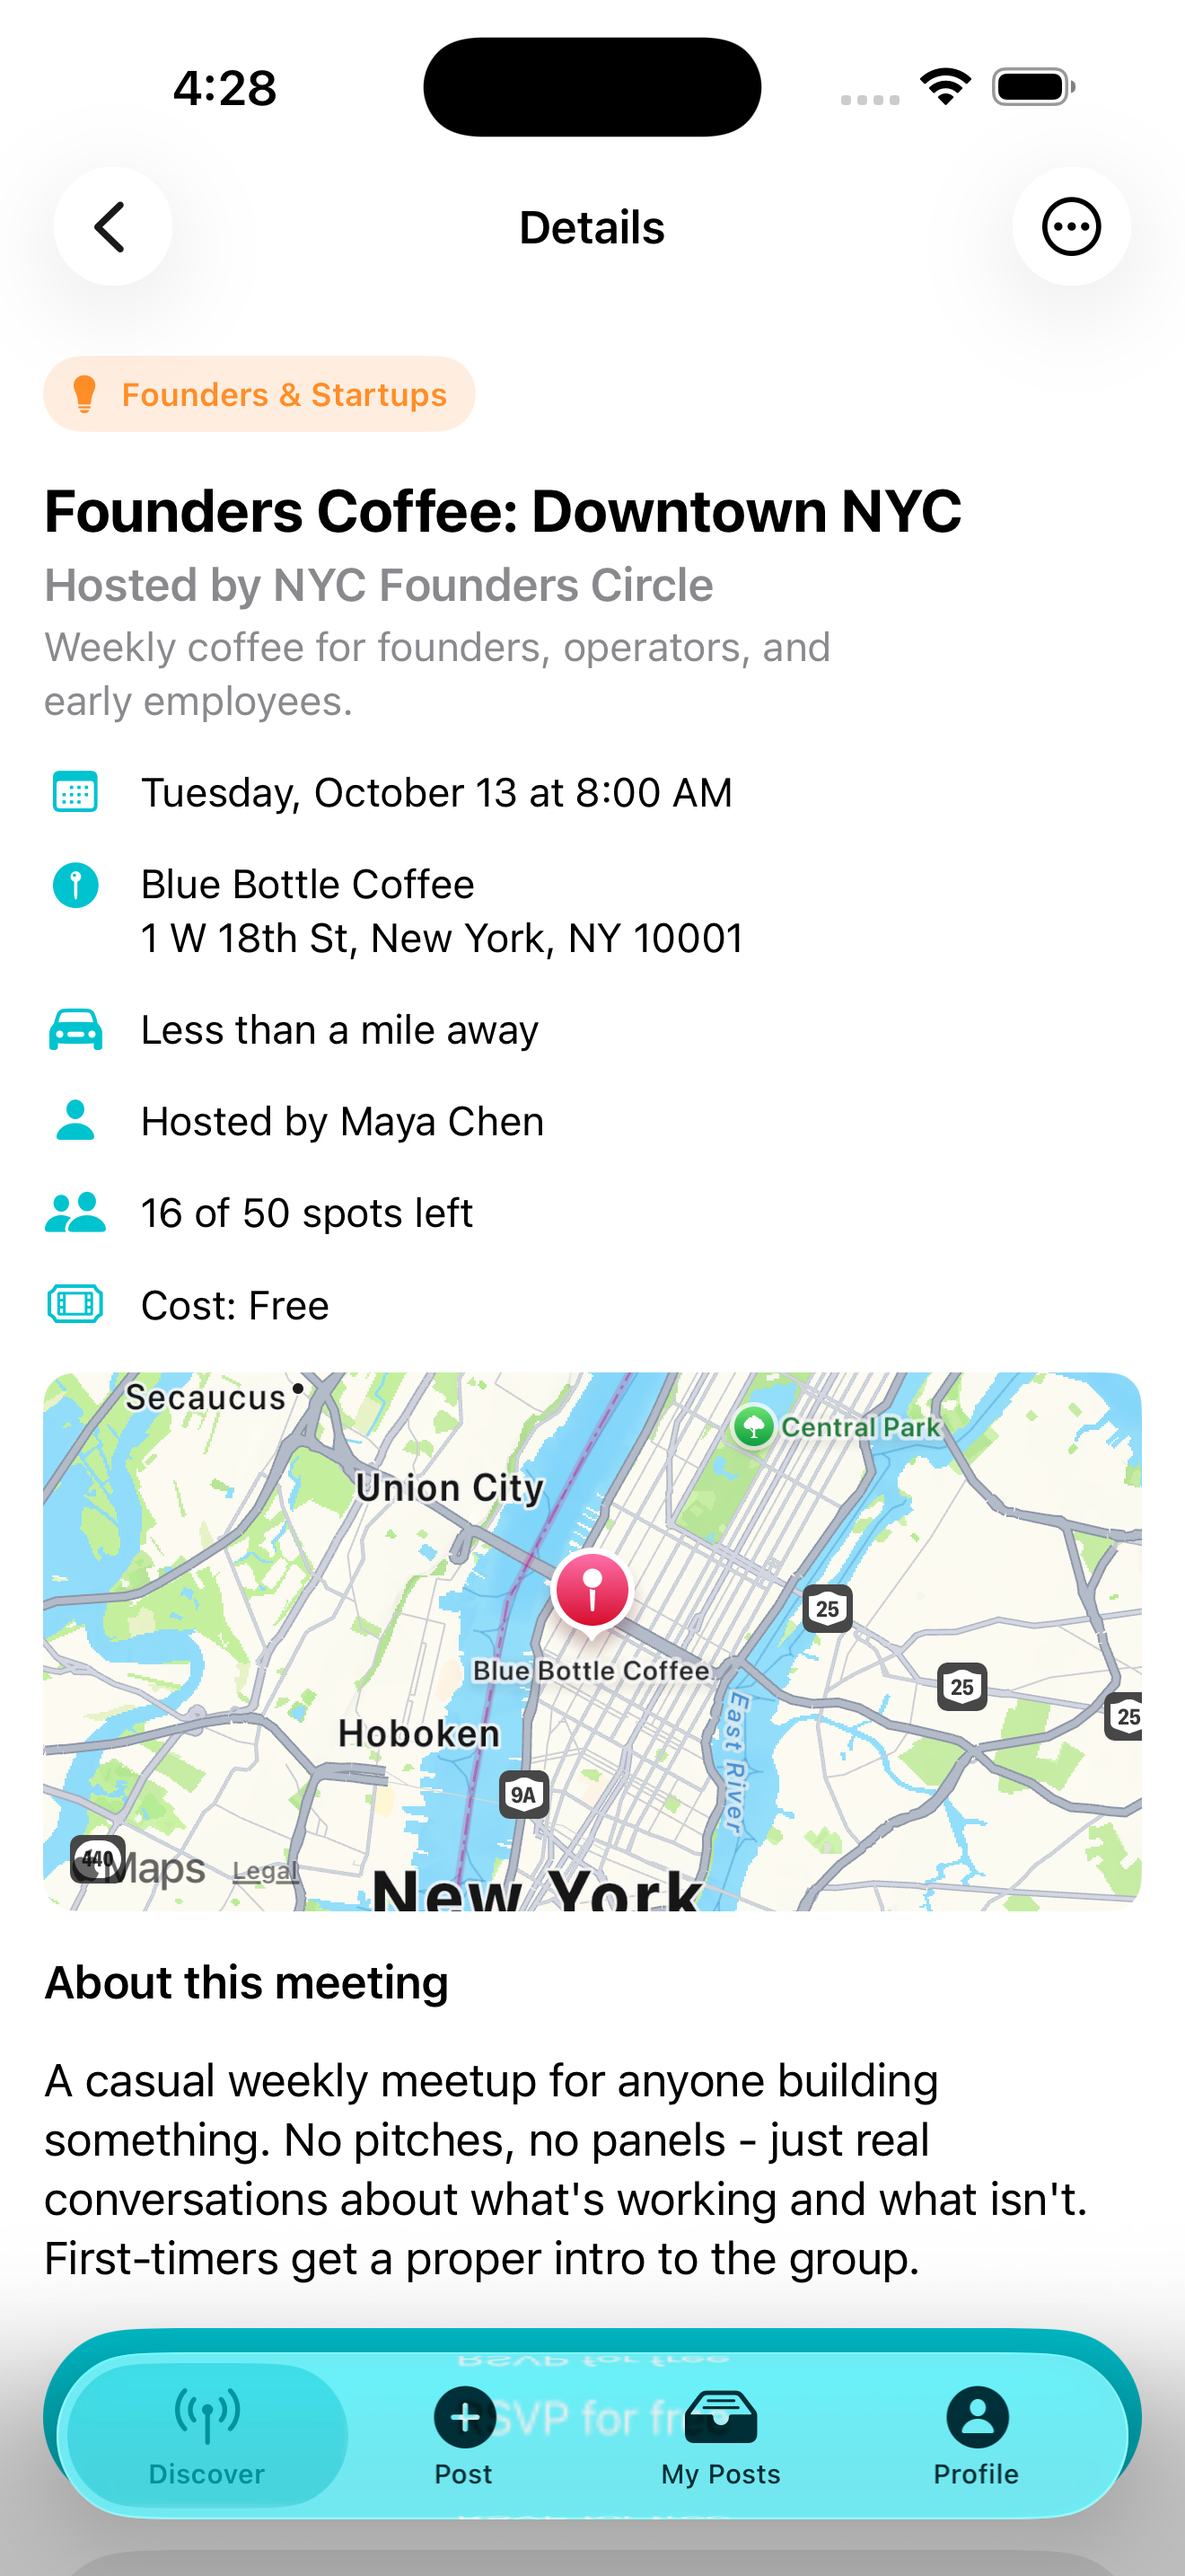
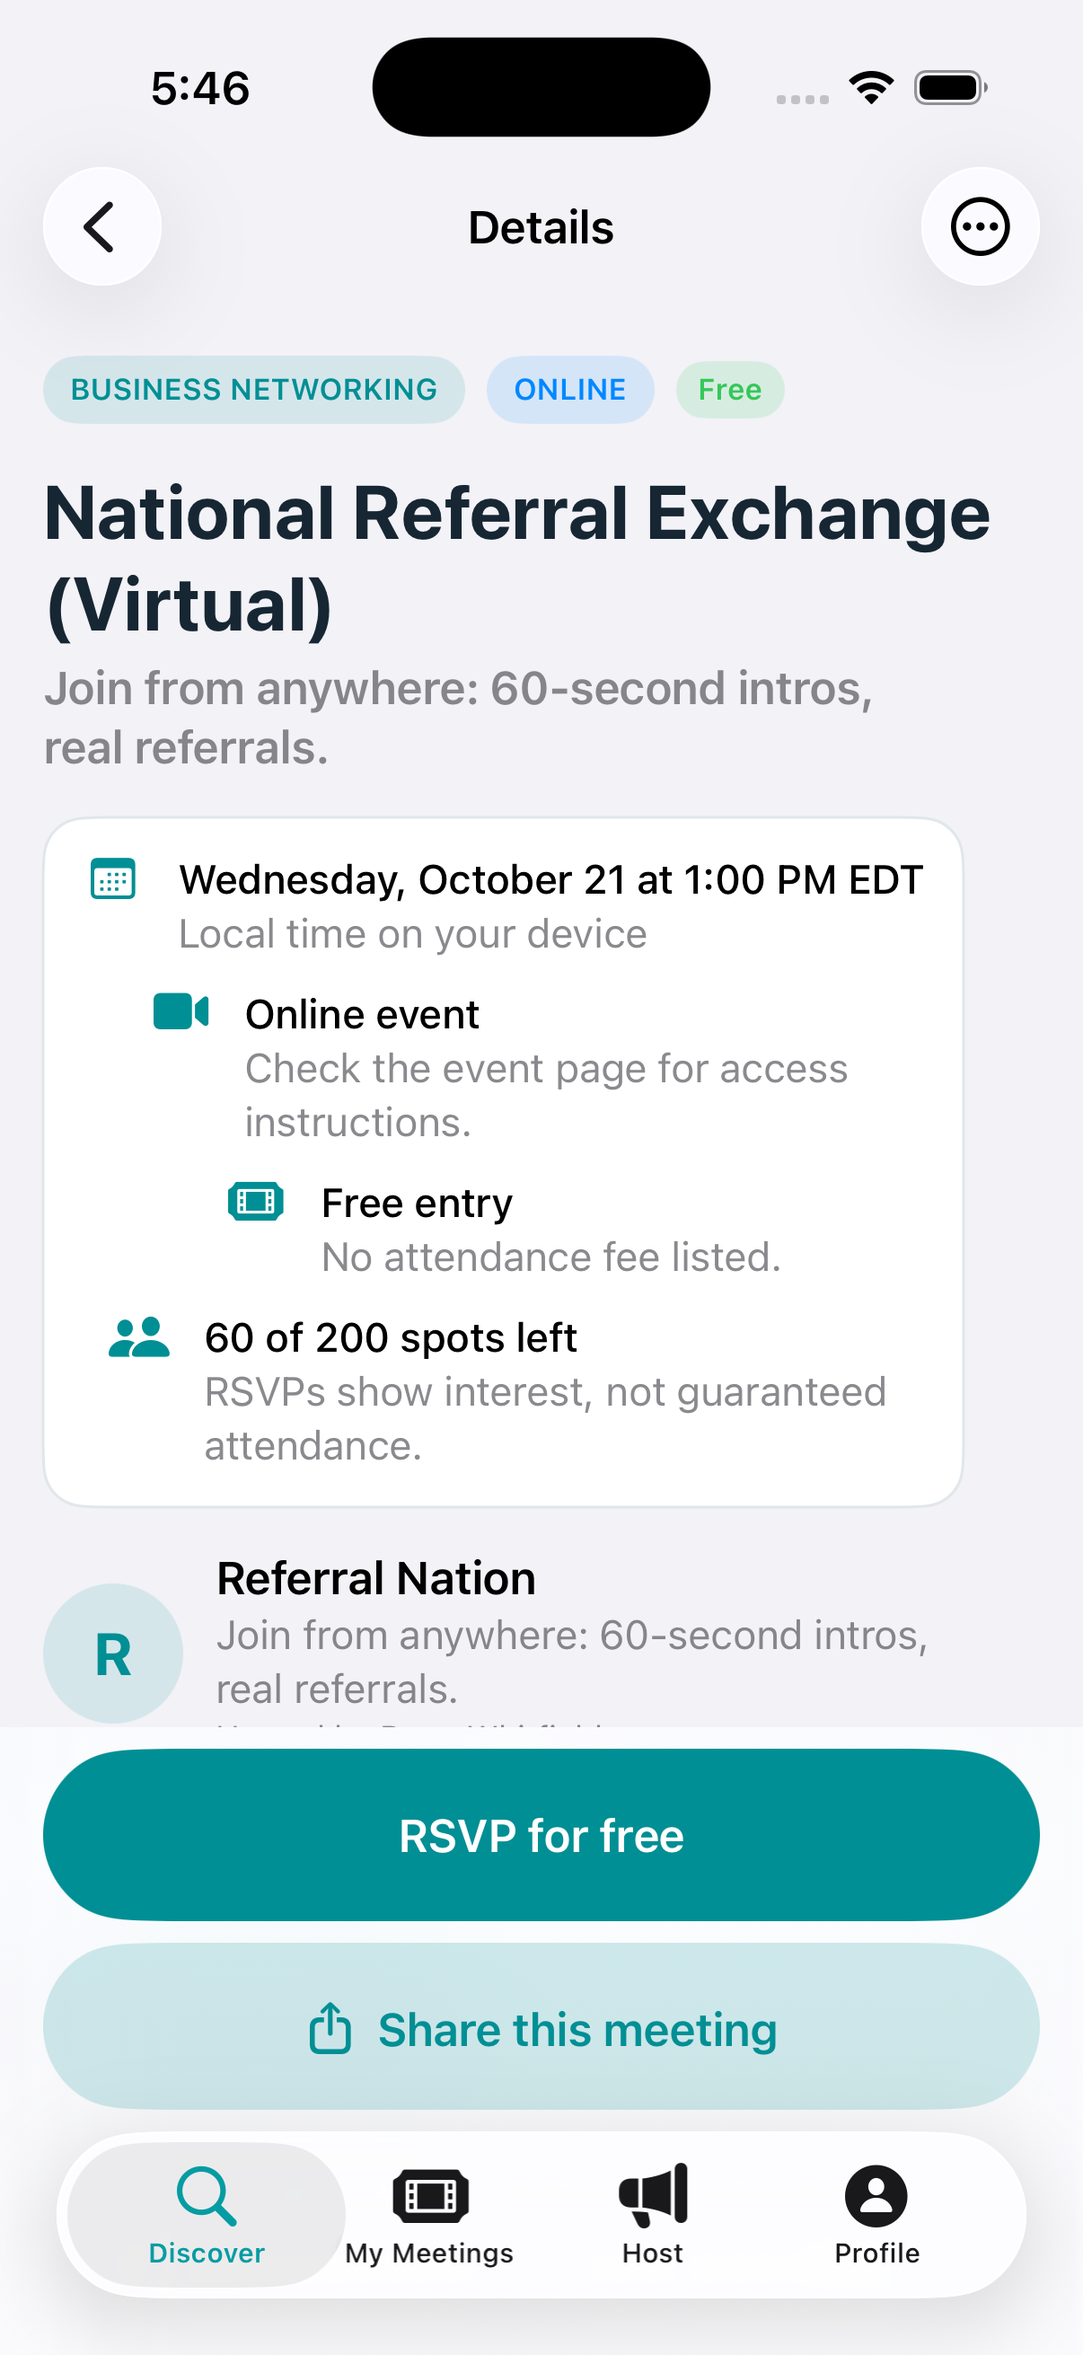
Website matches app: unlimited posting, Host tab, fresh screenshots

diff --git a/website/index.html b/website/index.html
@@ -136,8 +136,8 @@
     <p class="lead">The short version of everything people ask us.</p>
     <div class="faq">
       <div class="faq-item"><button class="faq-q">Is BizLinq really free for attendees?<span class="plus">+</span></button><div class="faq-a"><p>Yes. Browsing meetings is free with no account at all. RSVPing needs a free account (Sign in with Apple) so hosts get an accurate headcount. Only posting costs money.</p></div></div>
-      <div class="faq-item"><button class="faq-q">How do I post my networking meeting?<span class="plus">+</span></button><div class="faq-a"><p>Sign in, grab a Poster Monthly ($10) or Poster Annual ($99) plan in the app, then tap Post and fill in your meeting. It goes live instantly for everyone in range.</p></div></div>
-      <div class="faq-item"><button class="faq-q">Are there posting limits?<span class="plus">+</span></button><div class="faq-a"><p>No. Poster plans include unlimited live posts, and you can edit any live listing anytime from My Posts. Quality stays high because every listing is tied to a paying host.</p></div></div>
+      <div class="faq-item"><button class="faq-q">How do I post my networking meeting?<span class="plus">+</span></button><div class="faq-a"><p>Sign in, grab a Poster Monthly ($10) or Poster Annual ($99) plan in the app, then tap Host and fill in your meeting. Your first post starts a 14-day free trial, and it goes live instantly for everyone in range. You can edit any live listing anytime.</p></div></div>
+      <div class="faq-item"><button class="faq-q">Are there posting limits?<span class="plus">+</span></button><div class="faq-a"><p>No. Poster plans include unlimited live posts, and you can edit any live listing anytime from the Host tab. Quality stays high because every listing is tied to a paying host.</p></div></div>
       <div class="faq-item"><button class="faq-q">How do refunds and cancellations work?<span class="plus">+</span></button><div class="faq-a"><p>All billing is handled by Apple. Cancel anytime in iPhone Settings → Apple ID → Subscriptions, and request refunds through Apple's Report a Problem page.</p></div></div>
       <div class="faq-item"><button class="faq-q">What if a listing looks like spam?<span class="plus">+</span></button><div class="faq-a"><p>Every meeting has a report menu — flag it in two taps and our team reviews it. You can also block any host so their meetings never appear for you again.</p></div></div>
       <div class="faq-item"><button class="faq-q">How do I delete my account and data?<span class="plus">+</span></button><div class="faq-a"><p>Email support@bizlinq.app from your account email and we'll delete your account and all associated data within 30 days. Cancelling a meeting removes it from listings immediately.</p></div></div>

diff --git a/website/support.html b/website/support.html
@@ -40,7 +40,7 @@
   <h2>Common fixes</h2>
   <ul>
     <li><strong>No meetings near me?</strong> Widen your radius or try Nationwide — new groups join every week. Virtual events always show regardless of radius.</li>
-    <li><strong>Can't post?</strong> Posting needs two things: a signed-in account and an active poster plan (Post tab → See poster plans). There are no posting limits — publish as often as you like.</li>
+    <li><strong>Can't post?</strong> Posting needs two things: a signed-in account and an active poster plan (Host tab → See poster plans). There are no posting limits — publish as often as you like.</li>
     <li><strong>Purchase not showing?</strong> Tap "Restore purchase" on the paywall, and make sure you're signed in with the same Apple ID you bought with.</li>
     <li><strong>Wrong location?</strong> Update your ZIP and radius anytime in Profile → Search area.</li>
   </ul>
@@ -51,7 +51,7 @@
   <div class="support-card" id="delete">
     <h2>Delete your account</h2>
     <ol class="steps-list">
-      <li>Cancel any live meetings from My Posts (optional — deletion removes them anyway).</li>
+      <li>Cancel any live meetings from the Host tab (optional — deletion removes them anyway).</li>
       <li>Email <a href="mailto:support@bizlinq.app?subject=Delete%20my%20BizLinq%20account">support@bizlinq.app</a> from your account email with the subject "Delete my BizLinq account".</li>
       <li>We confirm and delete your account, posts, RSVPs, and profile within 30 days.</li>
     </ol>
